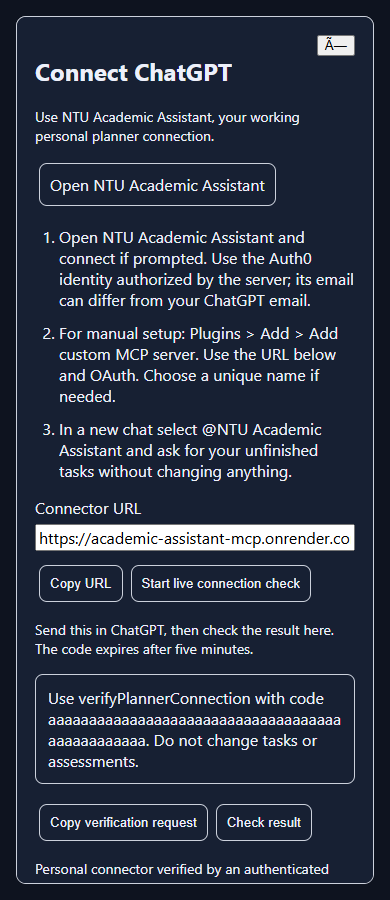
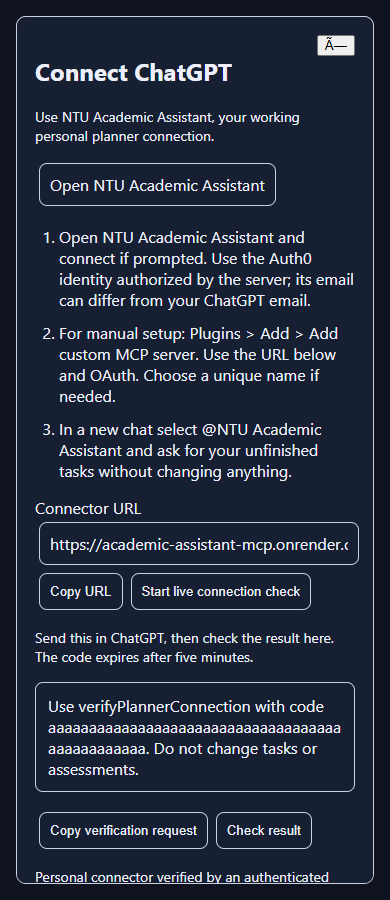
Keep hosted verification disabled in website-only release

Changed region(s): [[0.0923, 0.56, 0.9231, 0.8711], [0.0923, 0.8711, 0.8615, 0.9956], [0.8923, 0.7467, 0.9231, 0.7778]]

diff --git a/index.html b/index.html
@@ -1999,6 +1999,7 @@ const inboxGo=go;go=function(){if(location.hash==='#inbox'){inboxOpen=true;histo
 // Personal connection setup. No credentials or inferred authentication state.
 (() => {
  const url='https://academic-assistant-mcp.onrender.com/mcp';
+ const liveChecksEnabled=window.AA_PERSONAL_CONNECTION_CHECK_ENABLED===true;
  const plugin='https://chatgpt.com/plugins/plugin_asdk_app_6af339ded2248191a049c3ef85c2d1e4';
  const el=(tag,text,cls)=>{const n=document.createElement(tag);if(text!==undefined)n.textContent=text;if(cls)n.className=cls;return n;};
  const scope=()=>WorkspaceProvider.scope();
@@ -2013,7 +2014,7 @@ const inboxGo=go;go=function(){if(location.hash==='#inbox'){inboxOpen=true;histo
   return r.json();
  }
  window.startPersonalChatGPTCheck=async function(){
-  if(busy)return;const initial=scope();busy=true;say('Starting a live check...');
+  if(!liveChecksEnabled){say('Live verification is not enabled in this release. Verify by asking NTU Academic Assistant to read your tasks.');return;}if(busy)return;const initial=scope();busy=true;say('Starting a live check...');
   try{const r=await request({action:'start'});if(scope()!==initial)return;
    if(!/^[a-f0-9]{48}$/.test(r.id||'')||!Number.isFinite(Date.parse(r.expiresAt)))throw Error('Invalid verification response.');
    proof={...r,scope:initial};window.openPersonalChatGPTSetup(true);
@@ -2032,7 +2033,7 @@ const inboxGo=go;go=function(){if(location.hash==='#inbox'){inboxOpen=true;histo
   card.append(el('h2','Connect ChatGPT'),el('p','Use NTU Academic Assistant, your working personal planner connection.','sub'));
   const link=el('a','Open NTU Academic Assistant','btn p');link.href=plugin;link.target='_blank';link.rel='noopener noreferrer';card.append(link);
   const steps=el('ol');for(const text of ['Open NTU Academic Assistant and connect if prompted. Use the Auth0 identity authorized by the server; its email can differ from your ChatGPT email.','For manual setup: Plugins > Add > Add custom MCP server. Use the URL below and OAuth. Choose a unique name if needed.','In a new chat select @NTU Academic Assistant and ask for your unfinished tasks without changing anything.'])steps.append(el('li',text));card.append(steps);
-  const label=el('label','Connector URL'),input=el('input');input.className='btn';input.readOnly=true;input.value=url;label.append(input);card.append(label,button('Copy URL',()=>copy(url)),button('Start live connection check',()=>window.startPersonalChatGPTCheck()));
+  const label=el('label','Connector URL'),input=el('input');input.className='btn';input.readOnly=true;input.value=url;label.append(input);card.append(label,button('Copy URL',()=>copy(url)));if(liveChecksEnabled)card.append(button('Start live connection check',()=>window.startPersonalChatGPTCheck()));else card.append(el('p','To verify this connection, ask NTU Academic Assistant to read your tasks. In-app live verification is not enabled in this release.','sub'));
   const p=valid();if(p){const prompt='Use verifyPlannerConnection with code '+p.id+'. Do not change tasks or assessments.';card.append(el('p','Send this in ChatGPT, then check the result here. The code expires after five minutes.','sub'),el('pre',prompt,'connection-proof'),button('Copy verification request',()=>copy(prompt)),button('Check result',()=>window.checkPersonalChatGPTResult()));}
   const status=el('p',notice||'Not checked here. Opening ChatGPT or installing a plugin does not verify live access.','sub');status.id='chatgptConnectionNotice';status.setAttribute('role','status');card.append(status);
   card.append(el('p','Requires an eligible ChatGPT account and permission to add custom MCP servers.','sub'),el('p','Disconnect and revoke access in ChatGPT. This page cannot revoke its grant. This connector is personal; it does not link other students to their planners.','sub'));

diff --git a/workspace.html b/workspace.html
@@ -1999,6 +1999,7 @@ const inboxGo=go;go=function(){if(location.hash==='#inbox'){inboxOpen=true;histo
 // Personal connection setup. No credentials or inferred authentication state.
 (() => {
  const url='https://academic-assistant-mcp.onrender.com/mcp';
+ const liveChecksEnabled=window.AA_PERSONAL_CONNECTION_CHECK_ENABLED===true;
  const plugin='https://chatgpt.com/plugins/plugin_asdk_app_6af339ded2248191a049c3ef85c2d1e4';
  const el=(tag,text,cls)=>{const n=document.createElement(tag);if(text!==undefined)n.textContent=text;if(cls)n.className=cls;return n;};
  const scope=()=>WorkspaceProvider.scope();
@@ -2013,7 +2014,7 @@ const inboxGo=go;go=function(){if(location.hash==='#inbox'){inboxOpen=true;histo
   return r.json();
  }
  window.startPersonalChatGPTCheck=async function(){
-  if(busy)return;const initial=scope();busy=true;say('Starting a live check...');
+  if(!liveChecksEnabled){say('Live verification is not enabled in this release. Verify by asking NTU Academic Assistant to read your tasks.');return;}if(busy)return;const initial=scope();busy=true;say('Starting a live check...');
   try{const r=await request({action:'start'});if(scope()!==initial)return;
    if(!/^[a-f0-9]{48}$/.test(r.id||'')||!Number.isFinite(Date.parse(r.expiresAt)))throw Error('Invalid verification response.');
    proof={...r,scope:initial};window.openPersonalChatGPTSetup(true);
@@ -2032,7 +2033,7 @@ const inboxGo=go;go=function(){if(location.hash==='#inbox'){inboxOpen=true;histo
   card.append(el('h2','Connect ChatGPT'),el('p','Use NTU Academic Assistant, your working personal planner connection.','sub'));
   const link=el('a','Open NTU Academic Assistant','btn p');link.href=plugin;link.target='_blank';link.rel='noopener noreferrer';card.append(link);
   const steps=el('ol');for(const text of ['Open NTU Academic Assistant and connect if prompted. Use the Auth0 identity authorized by the server; its email can differ from your ChatGPT email.','For manual setup: Plugins > Add > Add custom MCP server. Use the URL below and OAuth. Choose a unique name if needed.','In a new chat select @NTU Academic Assistant and ask for your unfinished tasks without changing anything.'])steps.append(el('li',text));card.append(steps);
-  const label=el('label','Connector URL'),input=el('input');input.className='btn';input.readOnly=true;input.value=url;label.append(input);card.append(label,button('Copy URL',()=>copy(url)),button('Start live connection check',()=>window.startPersonalChatGPTCheck()));
+  const label=el('label','Connector URL'),input=el('input');input.className='btn';input.readOnly=true;input.value=url;label.append(input);card.append(label,button('Copy URL',()=>copy(url)));if(liveChecksEnabled)card.append(button('Start live connection check',()=>window.startPersonalChatGPTCheck()));else card.append(el('p','To verify this connection, ask NTU Academic Assistant to read your tasks. In-app live verification is not enabled in this release.','sub'));
   const p=valid();if(p){const prompt='Use verifyPlannerConnection with code '+p.id+'. Do not change tasks or assessments.';card.append(el('p','Send this in ChatGPT, then check the result here. The code expires after five minutes.','sub'),el('pre',prompt,'connection-proof'),button('Copy verification request',()=>copy(prompt)),button('Check result',()=>window.checkPersonalChatGPTResult()));}
   const status=el('p',notice||'Not checked here. Opening ChatGPT or installing a plugin does not verify live access.','sub');status.id='chatgptConnectionNotice';status.setAttribute('role','status');card.append(status);
   card.append(el('p','Requires an eligible ChatGPT account and permission to add custom MCP servers.','sub'),el('p','Disconnect and revoke access in ChatGPT. This page cannot revoke its grant. This connector is personal; it does not link other students to their planners.','sub'));

diff --git a/workspace/chatgpt-connect-hook.js b/workspace/chatgpt-connect-hook.js
@@ -1,6 +1,7 @@
 // Personal connection setup. No credentials or inferred authentication state.
 (() => {
  const url='https://academic-assistant-mcp.onrender.com/mcp';
+ const liveChecksEnabled=window.AA_PERSONAL_CONNECTION_CHECK_ENABLED===true;
  const plugin='https://chatgpt.com/plugins/plugin_asdk_app_6af339ded2248191a049c3ef85c2d1e4';
  const el=(tag,text,cls)=>{const n=document.createElement(tag);if(text!==undefined)n.textContent=text;if(cls)n.className=cls;return n;};
  const scope=()=>WorkspaceProvider.scope();
@@ -15,7 +16,7 @@
   return r.json();
  }
  window.startPersonalChatGPTCheck=async function(){
-  if(busy)return;const initial=scope();busy=true;say('Starting a live check...');
+  if(!liveChecksEnabled){say('Live verification is not enabled in this release. Verify by asking NTU Academic Assistant to read your tasks.');return;}if(busy)return;const initial=scope();busy=true;say('Starting a live check...');
   try{const r=await request({action:'start'});if(scope()!==initial)return;
    if(!/^[a-f0-9]{48}$/.test(r.id||'')||!Number.isFinite(Date.parse(r.expiresAt)))throw Error('Invalid verification response.');
    proof={...r,scope:initial};window.openPersonalChatGPTSetup(true);
@@ -34,7 +35,7 @@
   card.append(el('h2','Connect ChatGPT'),el('p','Use NTU Academic Assistant, your working personal planner connection.','sub'));
   const link=el('a','Open NTU Academic Assistant','btn p');link.href=plugin;link.target='_blank';link.rel='noopener noreferrer';card.append(link);
   const steps=el('ol');for(const text of ['Open NTU Academic Assistant and connect if prompted. Use the Auth0 identity authorized by the server; its email can differ from your ChatGPT email.','For manual setup: Plugins > Add > Add custom MCP server. Use the URL below and OAuth. Choose a unique name if needed.','In a new chat select @NTU Academic Assistant and ask for your unfinished tasks without changing anything.'])steps.append(el('li',text));card.append(steps);
-  const label=el('label','Connector URL'),input=el('input');input.className='btn';input.readOnly=true;input.value=url;label.append(input);card.append(label,button('Copy URL',()=>copy(url)),button('Start live connection check',()=>window.startPersonalChatGPTCheck()));
+  const label=el('label','Connector URL'),input=el('input');input.className='btn';input.readOnly=true;input.value=url;label.append(input);card.append(label,button('Copy URL',()=>copy(url)));if(liveChecksEnabled)card.append(button('Start live connection check',()=>window.startPersonalChatGPTCheck()));else card.append(el('p','To verify this connection, ask NTU Academic Assistant to read your tasks. In-app live verification is not enabled in this release.','sub'));
   const p=valid();if(p){const prompt='Use verifyPlannerConnection with code '+p.id+'. Do not change tasks or assessments.';card.append(el('p','Send this in ChatGPT, then check the result here. The code expires after five minutes.','sub'),el('pre',prompt,'connection-proof'),button('Copy verification request',()=>copy(prompt)),button('Check result',()=>window.checkPersonalChatGPTResult()));}
   const status=el('p',notice||'Not checked here. Opening ChatGPT or installing a plugin does not verify live access.','sub');status.id='chatgptConnectionNotice';status.setAttribute('role','status');card.append(status);
   card.append(el('p','Requires an eligible ChatGPT account and permission to add custom MCP servers.','sub'),el('p','Disconnect and revoke access in ChatGPT. This page cannot revoke its grant. This connector is personal; it does not link other students to their planners.','sub'));

diff --git a/verification/connection-updates.md b/verification/connection-updates.md
@@ -32,3 +32,6 @@ No Supabase TEST project reference supplied. Recovered planner-api source is sti
 5. Review and test PR #3 separately against the non-production API. Its additive SQL has companion rollback scripts; hosted gates remain unchecked.
 6. Production remains blocked pending explicit user approval. sw.js is bumped from v41 to v42 in this draft so cached setup code updates after a future approved website publish.
 7. Roll back website by reverting this commit and bumping cache again. Disable ENABLE_CONNECTION_CHECK and restore the old connector commit to remove only the optional probe. It stores only ephemeral five-minute status, so no database rollback is required for this connector change. For draft #3 use its SQL rollback scripts only after preserving new audit/history and stopping writes.
+
+## Website-only release
+User approved publishing only the website on 17 November. The optional live-check UI is hidden unless AA_PERSONAL_CONNECTION_CHECK_ENABLED is explicitly true; the released site offers a read-only ChatGPT verification prompt instead. No connector endpoint is deployed. Full-app browser checks assert the unavailable action is absent.
